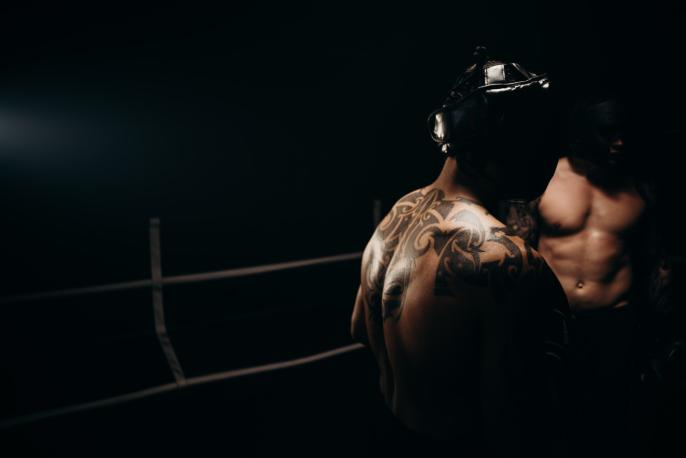
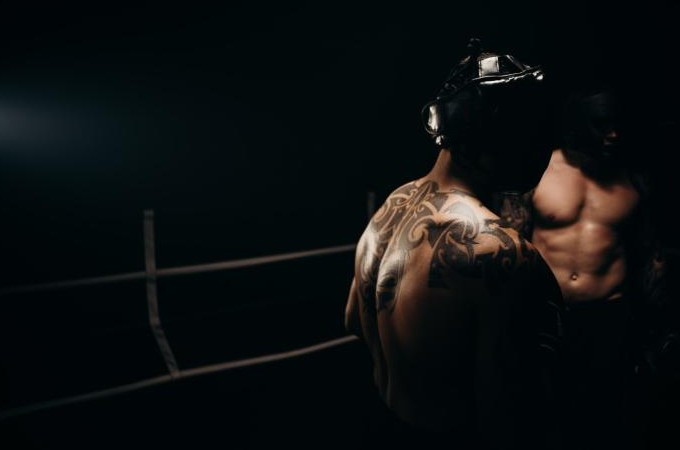
pictures of attractions cropped

diff --git a/resources/views/attraction/index.blade.php b/resources/views/attraction/index.blade.php
@@ -5,8 +5,8 @@
 <h1 class="text-center title_index">Nos attractions</h1>
   <div class="row justify-content-around">
 
-    <div class="card bg-dark text-white col-lg-5 col-md-10 mx-2 mb-4">
-      <img src="{{ asset('images/vr_entrance.png')}}" class="card-img" alt="virtual reality entrance">
+    <div class="card bg-dark text-white col-lg-5 col-md-10 mx-2 mb-4" >
+      <img src="{{ asset('images/vr_entrance.jpg')}}" class="card-img" alt="virtual reality entrance" style="height: 450px">
       <div class="card-img-overlay">
         <img src="{{ asset('images/logo_vr.png')}}" class="card-img-top p-2 bd-highlight" alt="logo contagion virtual reality" style="width: 50%;">
         <img src="{{ asset('images/icon_male.svg')}}" class="card-img-top p-2 bd-highlight" alt="logo contagion virtual reality" style="width: 2%;">
@@ -19,8 +19,9 @@
     </div>
 
     <div class="card bg-dark text-white col-lg-5 col-md-10 mx-2 mb-4">
-      <img src="{{ asset('images/battle_kart.png')}}" class="card-img-top" alt="karts">
+      <img src="{{ asset('images/battle_kart.jpg')}}" class="card-img-top" alt="karts" style="height: 450px">
       <div class="card-img-overlay">
+        <img src="{{ asset('images/logo_battle_kart.png')}}" class="card-img-top" alt="logo super fighter league" style="width: 40%">
         <img src="{{ asset('images/icon_male.svg')}}" class="card-img-top p-2 bd-highlight" alt="logo contagion virtual reality" style="width: 2%;">
         <p class="p-2 bd-highlight">Accessible à tous</p>
         <h3>XP 1000 par partie</h3>
@@ -31,7 +32,7 @@
 
 
     <div class="card bg-dark text-white col-lg-5 col-md-10 mx-2 mb-4">
-      <img src="{{ asset('images/football_pitch.jpg')}}" class="card-img-top" alt="football pitch">
+      <img src="{{ asset('images/football_pitch.jpg')}}" class="card-img-top" alt="football pitch" style="height: 450px">
       <div class="card-img-overlay">
         <img src="{{ asset('images/logo_champions_league.png')}}" class="card-img-top" alt="logo champions league" style="width: 40%">
         <img src="{{ asset('images/icon_male.svg')}}" class="card-img-top p-2 bd-highlight" alt="logo contagion virtual reality" style="width: 2%;">
@@ -44,7 +45,7 @@
 
 
     <div class="card bg-dark text-white col-lg-5 col-md-10 mx-2 mb-4">
-      <img src="{{ asset('images/champions_league_survivor_football_pitch.png')}}" class="card-img-top" alt="football pitch">
+      <img src="{{ asset('images/champions_league_survivor_football_pitch.jpg')}}" class="card-img-top" alt="football pitch" style="height: 450px">
       <div class="card-img-overlay">
       <img src="{{ asset('images/logo_champions_league_survivor.png')}}" class="card-img-top" alt="logo champions league survivor" style="width: 40%">
       <img src="{{ asset('images/icon_male.svg')}}" class="card-img-top p-2 bd-highlight" alt="logo contagion virtual reality" style="width: 2%;">
@@ -58,7 +59,7 @@
     </div>
 
     <div class="card bg-dark text-white col-lg-5 col-md-10 mx-2 mb-4">
-      <img src="{{ asset('images/arcade_joystick.jpg')}}" class="card-img-top" alt="arcade joystick">
+      <img src="{{ asset('images/arcade_joystick.jpg')}}" class="card-img-top" alt="arcade joystick" style="height: 450px">
       <div class="card-img-overlay">
       <img src="{{ asset('images/logo_game_center.png')}}" class="card-img-top" alt="logo game center" style="width: 40%">
       <img src="{{ asset('images/icon_male.svg')}}" class="card-img-top p-2 bd-highlight" alt="logo contagion virtual reality" style="width: 2%;">
@@ -69,7 +70,7 @@
     </div>
 
     <div class="card bg-dark text-white col-lg-5 col-md-10 mx-2 mb-4">
-      <img src="{{ asset('images/boxer.jpg')}}" class="card-img-top" alt="boxer">
+      <img src="{{ asset('images/boxer.jpg')}}" class="card-img-top" alt="boxer" style="height: 450px">
       <div class="card-img-overlay">
         <img src="{{ asset('images/logo_fighter_hard_team.png')}}" class="card-img-top" alt="logo fighter hard team" style="width: 40%">
         <img src="{{ asset('images/icon_male.svg')}}" class="card-img-top p-2 bd-highlight" alt="logo contagion virtual reality" style="width: 2%;">
@@ -82,7 +83,7 @@
     </div>
 
     <div class="card bg-dark text-white col-lg-5 col-md-10 mx-2 mb-4">
-      <img src="{{ asset('images/super_fighter_league_night_fairground.png')}}" class="card-img-top" alt="fairground at night">
+      <img src="{{ asset('images/super_fighter_league_night_fairground.png')}}" class="card-img-top" alt="fairground at night" style="height: 450px">
       <div class="card-img-overlay">
         <img src="{{ asset('images/logo_super_fighter_league.png')}}" class="card-img-top" alt="logo super fighter league" style="width: 40%">
         <img src="{{ asset('images/icon_male.svg')}}" class="card-img-top p-2 bd-highlight" alt="logo contagion virtual reality" style="width: 2%;">
@@ -93,7 +94,7 @@
     </div>
 
     <div class="card bg-dark text-white col-lg-5 col-md-10 mx-2 mb-4">
-      <img src="{{ asset('images/heroes_team_iron_man.jpg')}}" class="card-img-top" alt="iron man">
+      <img src="{{ asset('images/heroes_team_iron_man.jpg')}}" class="card-img-top" alt="iron man" style="height: 450px">
       <div class="card-img-overlay">
         <img src="{{ asset('images/logo_heroes_team.png')}}" class="card-img-top" alt="logo heroes team" style="width: 40%">
         <img src="{{ asset('images/icon_male.svg')}}" class="card-img-top p-2 bd-highlight" alt="logo contagion virtual reality" style="width: 5%;">
@@ -104,7 +105,7 @@
     </div>
 
     <div class="card bg-dark text-white col-lg-5 col-md-10 mx-2 mb-4">
-      <img src="{{ asset('images/knight.jpg')}}" class="card-img-top" alt="knight">
+      <img src="{{ asset('images/knight.jpg')}}" class="card-img-top" alt="knight" style="height: 450px">
       <div class="card-img-overlay">
         <img src="{{ asset('images/logo_awesome_heroes_team.png')}}" class="card-img-top" alt="logo awesome heroes team" style="width: 40%">
         <img src="{{ asset('images/icon_male.svg')}}" class="card-img-top p-2 bd-highlight" alt="logo contagion virtual reality" style="width: 2%;">
